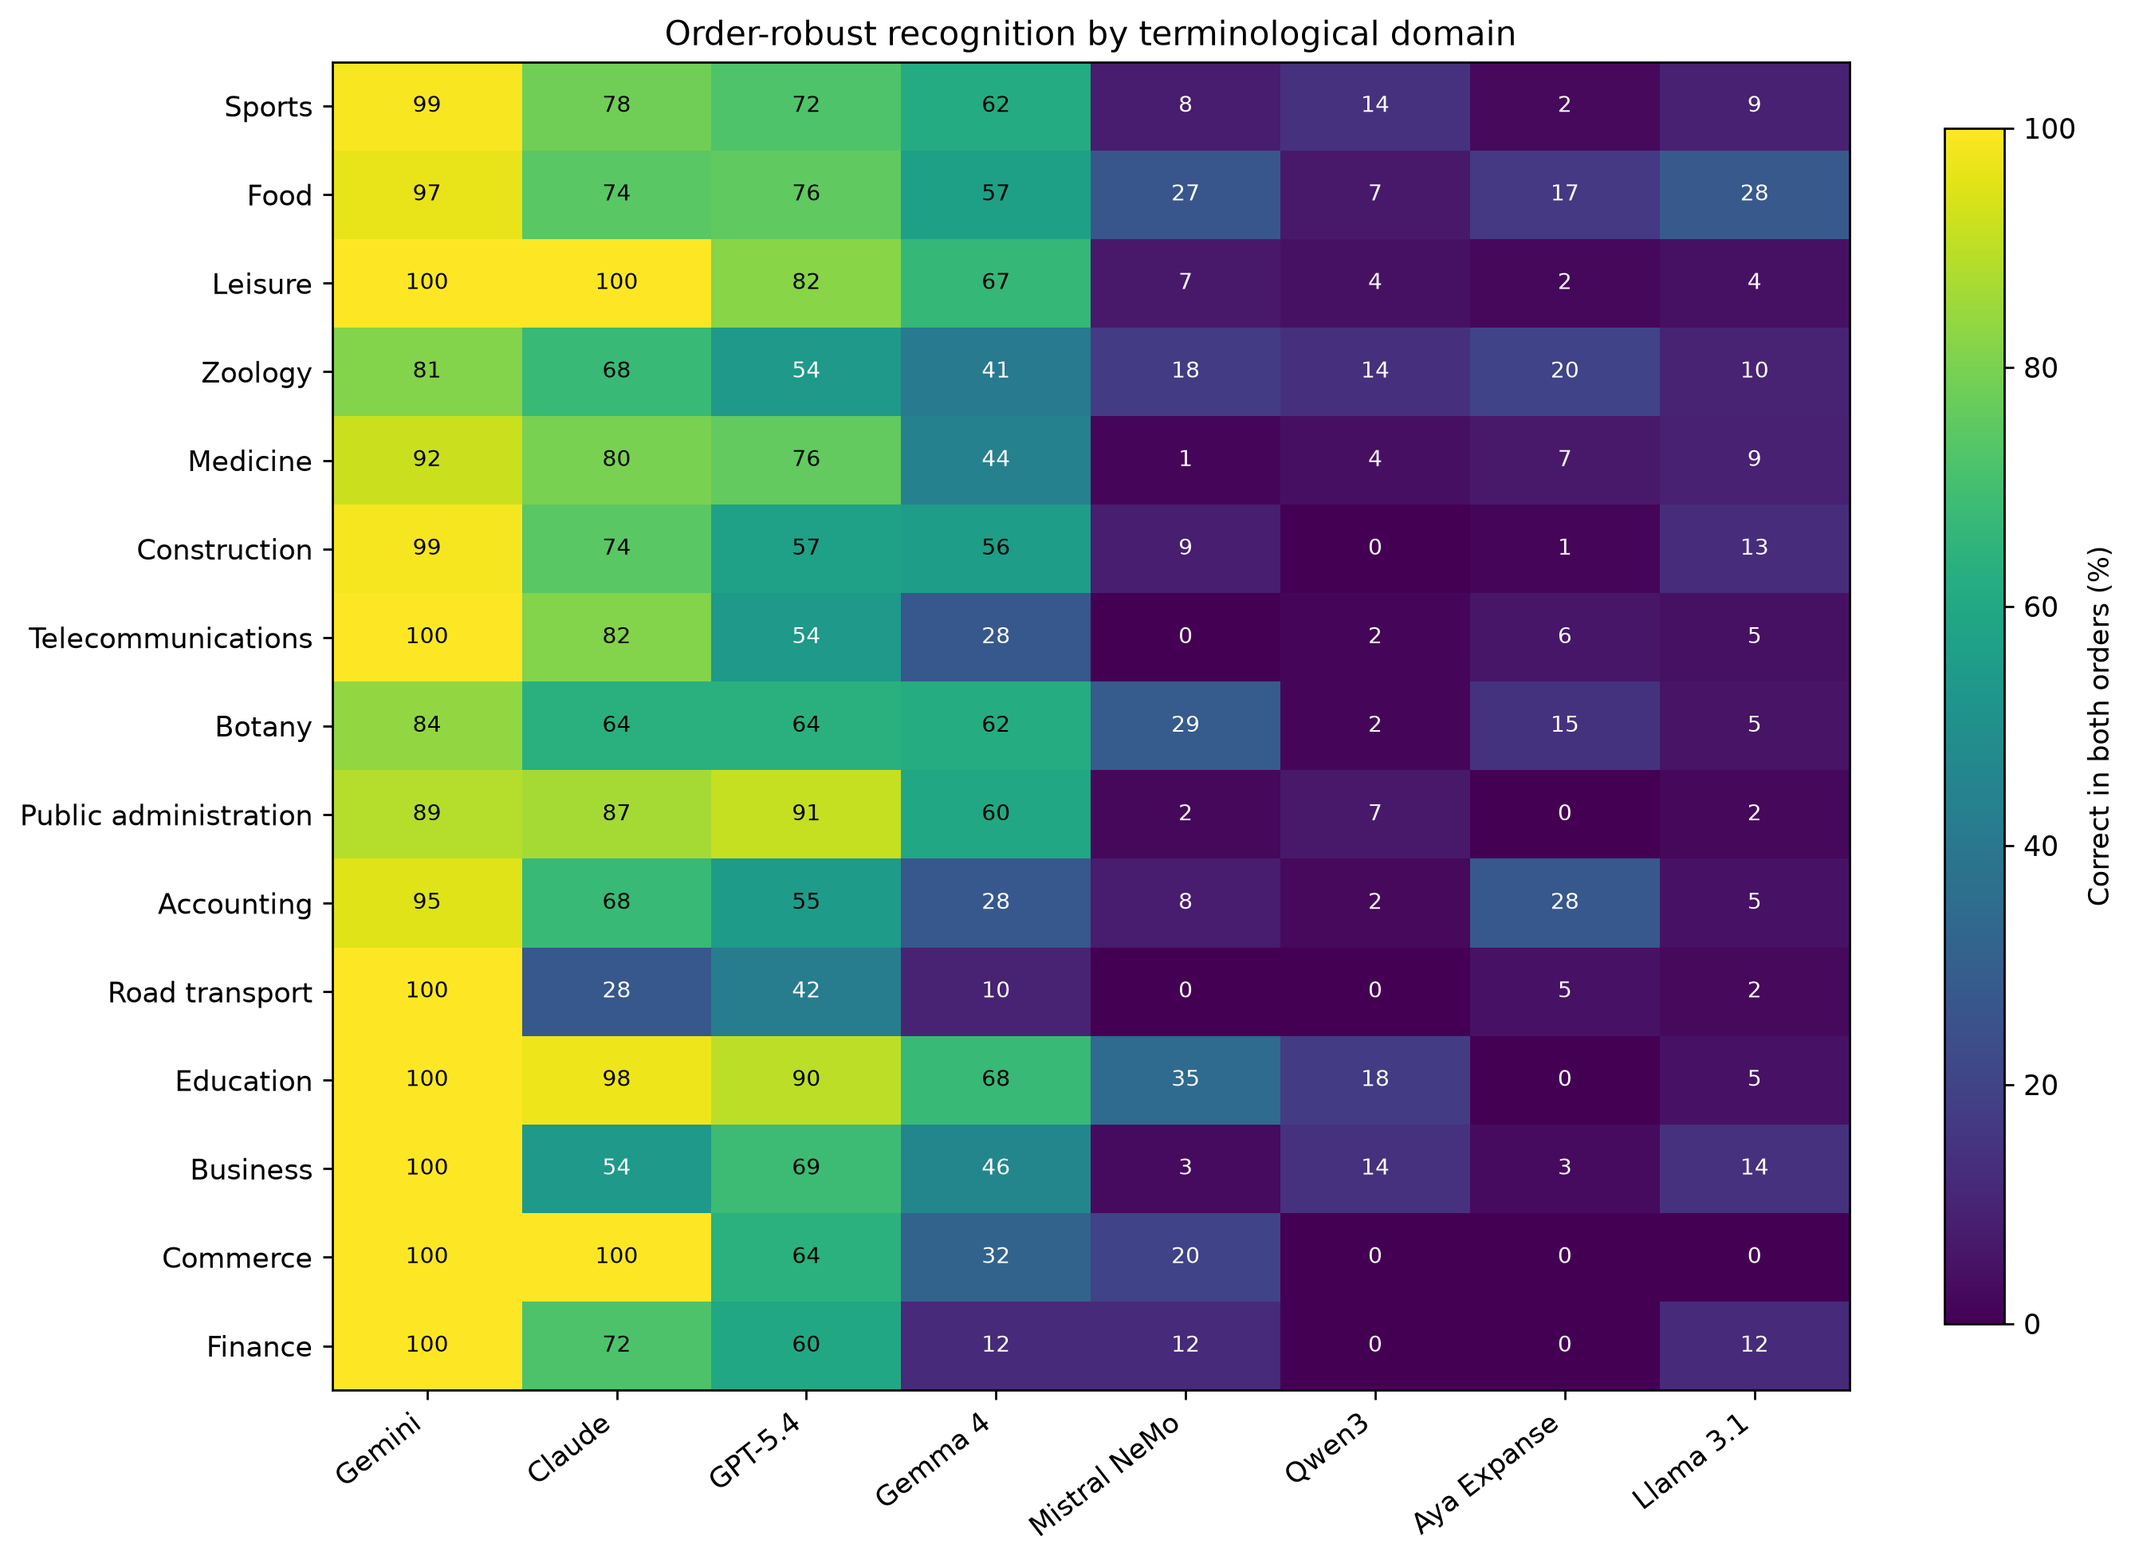
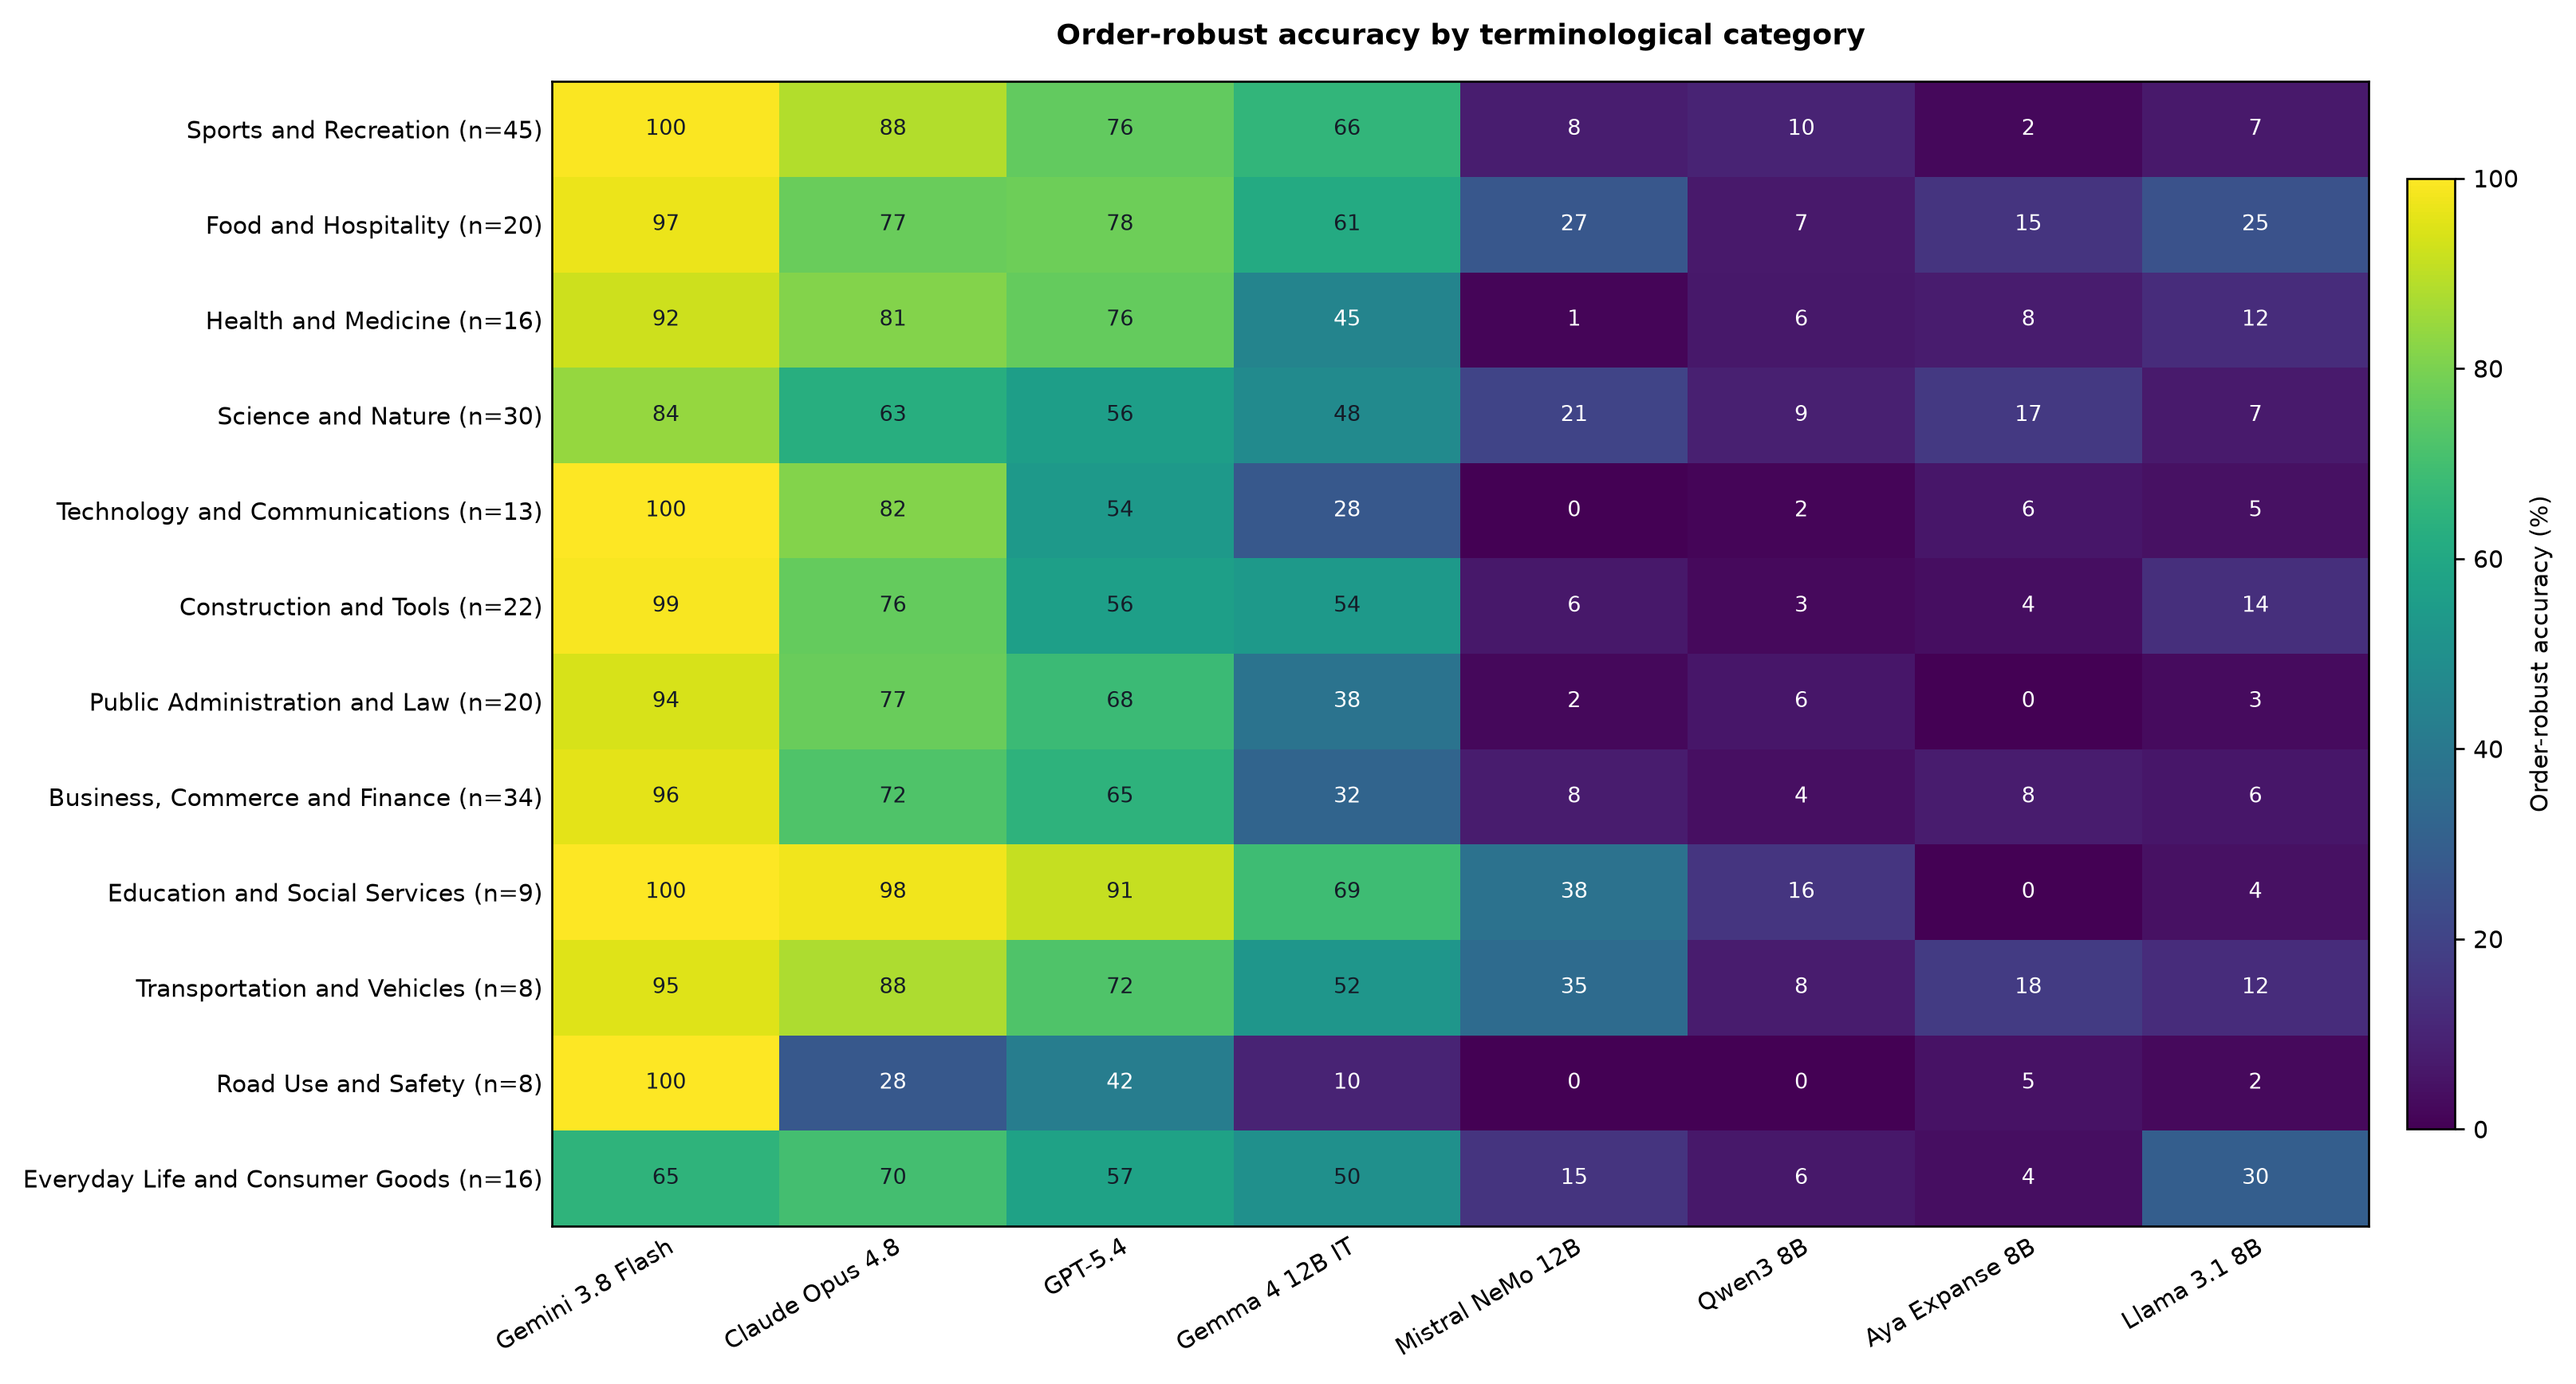
feat: add plot generation and update model labels

diff --git a/scripts/plot_publication_figures.py b/scripts/plot_publication_figures.py
@@ -1,0 +1,167 @@
+"""Rebuild publication figures from validated analysis CSVs (no inference).
+
+Run after the existing full-inversion analysis script. All outputs go to
+results/analysis/ and use manuscript-compatible filenames.
+"""
+from __future__ import annotations
+
+import argparse
+from pathlib import Path
+
+import matplotlib
+matplotlib.use("Agg")
+import matplotlib.pyplot as plt
+import numpy as np
+import pandas as pd
+
+MODELS = ["gemini", "claude", "gpt54", "gemma4_12b_it", "mistral_nemo_12b", "qwen3_8b", "aya_expanse_8b", "llama31_8b"]
+LABELS = {
+    "gemini": "Gemini 3.8 Flash", "claude": "Claude Opus 4.8", "gpt54": "GPT-5.4",
+    "gemma4_12b_it": "Gemma 4 12B IT", "mistral_nemo_12b": "Mistral NeMo 12B",
+    "qwen3_8b": "Qwen3 8B", "aya_expanse_8b": "Aya Expanse 8B", "llama31_8b": "Llama 3.1 8B",
+}
+CATEGORIES = [
+    "Sports and Recreation", "Food and Hospitality", "Health and Medicine",
+    "Science and Nature", "Technology and Communications", "Construction and Tools",
+    "Public Administration and Law", "Business, Commerce and Finance",
+    "Education and Social Services", "Transportation and Vehicles",
+    "Road Use and Safety", "Everyday Life and Consumer Goods",
+]
+plt.rcParams.update({"font.family": "DejaVu Sans", "font.size": 9, "pdf.fonttype": 42, "savefig.dpi": 240})
+
+
+def _load(path: Path, required: set[str]) -> pd.DataFrame:
+    if not path.is_file():
+        raise FileNotFoundError(f"Missing {path}; run the full analysis first")
+    df = pd.read_csv(path)
+    missing = required.difference(df.columns)
+    if missing:
+        raise ValueError(f"{path} lacks columns: {sorted(missing)}")
+    return df
+
+
+def _check_models(df: pd.DataFrame, name: str) -> pd.DataFrame:
+    present = set(df.model)
+    if present != set(MODELS):
+        raise ValueError(f"{name}: expected 8 models, found missing={set(MODELS)-present}, extra={present-set(MODELS)}")
+    return df
+
+
+def _save(fig, directory: Path, name: str) -> None:
+    for ext in ("png", "pdf"):
+        fig.savefig(directory / f"{name}.{ext}", bbox_inches="tight", pad_inches=0.12, dpi=240)
+    plt.close(fig)
+
+
+def plot_two_panel(overall: pd.DataFrame, out: Path) -> None:
+    arr = overall.set_index("model").loc[MODELS]
+    original = arr.original.to_numpy(float)*100
+    both = arr.correct_both.to_numpy(float)*100
+    one = arr.correct_one.to_numpy(float)*100
+    neither = arr.incorrect_both.to_numpy(float)*100
+    if not np.allclose(both+one+neither,100,atol=.01):
+        raise ValueError("Two-order results do not sum to 100%")
+    fig = plt.figure(figsize=(15.5,6.1))
+    grid = fig.add_gridspec(1,2,width_ratios=[1,1.45],wspace=.44)
+    a = fig.add_subplot(grid[0,0]); b=fig.add_subplot(grid[0,1])
+    a.plot([0,100],[0,100],"--",lw=1.2,color="#999999")
+    for i in range(8):
+        color="#31688e" if i<3 else "#8051a1"
+        a.scatter(original[i],both[i],s=115,c=color,edgecolors="white",linewidths=1,zorder=3)
+        a.text(original[i],both[i],str(i+1),ha="center",va="center",color="white",fontsize=7.5,weight="bold",zorder=4)
+    a.set(xlim=(18,102),ylim=(-3,102),xlabel="Original-order accuracy (%)",ylabel="Order-robust accuracy (%)")
+    a.set_title("(a) Original vs. order-robust accuracy",weight="bold")
+    a.grid(alpha=.17)
+    y=np.arange(8)
+    b.barh(y,both,color="#287d80",label="Correct in both orders")
+    b.barh(y,one,left=both,color="#d5a04b",label="Correct in one order")
+    b.barh(y,neither,left=both+one,color="#bf696a",label="Incorrect in both orders")
+    b.set(yticks=y,yticklabels=[f"{i+1}. {LABELS[m]}" for i,m in enumerate(MODELS)],xlim=(0,100),xlabel="Share of sentence pairs (%)")
+    b.invert_yaxis();b.grid(axis="x",alpha=.17);b.set_axisbelow(True)
+    for i in y:
+        for value,left in ((both[i],0),(one[i],both[i]),(neither[i],both[i]+one[i])):
+            if value>=10: b.text(left+value/2,i,f"{value:.1f}",ha="center",va="center",fontsize=7.7)
+    b.set_title("(b) Outcomes under candidate reversal",weight="bold")
+    fig.legend(*b.get_legend_handles_labels(),loc="lower center",bbox_to_anchor=(.5,-.02),ncol=3,frameon=False,fontsize=8.5)
+    fig.subplots_adjust(bottom=.16)
+    _save(fig,out,"two_panel_accuracy")
+
+
+def plot_ci(ci: pd.DataFrame, out: Path) -> None:
+    df=ci.loc[ci.metric.eq("correct_both")].set_index("model").loc[MODELS]
+    if len(df)!=8: raise ValueError("Missing robust CIs")
+    means=df.estimate.to_numpy(float)*100
+    low=df.low95.to_numpy(float)*100
+    high=df.high95.to_numpy(float)*100
+    if np.any(low>means) or np.any(means>high):raise ValueError("Invalid confidence intervals")
+    fig,ax=plt.subplots(figsize=(9.5,4.1))
+    y=np.arange(8)
+    for i in y:
+        ax.errorbar(means[i],i,xerr=np.array([[means[i]-low[i]],[high[i]-means[i]]]),fmt="o",capsize=3,ms=6,elinewidth=2,color="#31688e" if i<3 else "#8051a1")
+        ax.text(104,i,f"{means[i]:.2f}% [{low[i]:.2f}, {high[i]:.2f}]",va="center",fontsize=8.5)
+    ax.set(yticks=y,yticklabels=[LABELS[m] for m in MODELS],xlim=(0,150),xlabel="Order-robust accuracy (%)")
+    ax.invert_yaxis();ax.set_xticks([0,20,40,60,80,100]);ax.grid(axis="x",alpha=.16)
+    ax.set_title("Order-robust accuracy and 95% bootstrap CIs",weight="bold")
+    _save(fig,out,"robust_accuracy_ci")
+
+
+def aggregate_categories(pairs: pd.DataFrame, mapping: pd.DataFrame) -> pd.DataFrame:
+    """Map each source first/top-level domain to one broad category; pool pair outcomes."""
+    if mapping.primary_domain.duplicated().any():raise ValueError("Duplicate primary domains in mapping")
+    domain=pairs.domaine.fillna("").astype(str).str.split(";",regex=False).str[0].str.split(">",regex=False).str[0].str.strip()
+    lookup=dict(zip(mapping.primary_domain,mapping.broad_category))
+    missing=sorted(set(domain)-set(lookup))
+    if missing: raise ValueError(f"Unmapped primary domains: {missing}. Update data/domain_to_broad_category.csv")
+    df=pairs.assign(primary_domain=domain,broad_category=domain.map(lookup))
+    if len(df)!=1205*8 or df.feature_id.nunique()!=241:raise ValueError("Expected 1205 pairs x 8 models and 241 markers")
+    summary=(df.groupby(["model","broad_category"],as_index=False)
+        .agg(n_pairs=("pair_id","size"),n_markers=("feature_id","nunique"),robust_successes=("correct_both","sum")))
+    summary["robust"]=summary.robust_successes/summary.n_pairs
+    for model, part in summary.groupby("model"):
+        if part.n_pairs.sum()!=1205 or part.n_markers.sum()!=241 or set(part.broad_category)!=set(CATEGORIES):
+            raise ValueError(f"Incomplete category coverage for {model}")
+    return summary
+
+
+def plot_heatmap(data: pd.DataFrame,out:Path) -> None:
+    d=data.set_index(["model","broad_category"])
+    matrix=np.array([[100*float(d.loc[(model,cat),"robust"]) for model in MODELS] for cat in CATEGORIES])
+    counts=[int(d.loc[(MODELS[0],cat),"n_markers"]) for cat in CATEGORIES]
+    fig,ax=plt.subplots(figsize=(13.6,7.3))
+    im=ax.imshow(matrix,cmap="viridis",vmin=0,vmax=100,aspect="auto")
+    ax.set_xticks(np.arange(8),[LABELS[m] for m in MODELS],rotation=30,ha="right",rotation_mode="anchor",fontsize=9)
+    ax.set_yticks(np.arange(12),[f"{cat} (n={counts[i]})" for i,cat in enumerate(CATEGORIES)],fontsize=9)
+    for j in range(12):
+        for i in range(8):
+            val=matrix[j,i]
+            ax.text(i,j,f"{val:.0f}",ha="center",va="center",fontsize=8.1,color="white" if val<48 else "#151c28")
+    ax.tick_params(length=0)
+    ax.set_title("Order-robust accuracy by terminological category",weight="bold",pad=14)
+    cb=fig.colorbar(im,ax=ax,fraction=.025,pad=.02);cb.set_label("Order-robust accuracy (%)")
+    fig.tight_layout()
+    _save(fig,out,"domain_heatmap")
+
+
+def generate_figures(out: Path, mapping_path: Path) -> None:
+    """Call this from the bottom of the full-inversion analyzer after CSV export."""
+    out=Path(out);out.mkdir(parents=True,exist_ok=True)
+    overall=_check_models(_load(out/"overall.csv",{"model","original","correct_both","correct_one","incorrect_both"}),"overall")
+    ci=_check_models(_load(out/"cluster_bootstrap_ci.csv",{"model","metric","estimate","low95","high95"}),"CI")
+    pairs=_check_models(_load(out/"paired_observations.csv",{"model","pair_id","feature_id","domaine","correct_both"}),"paired observations")
+    mapping=_load(Path(mapping_path),{"primary_domain","broad_category"})
+    plot_two_panel(overall,out)
+    plot_ci(ci,out)
+    categories=aggregate_categories(pairs,mapping)
+    categories.to_csv(out/"broad_category_model_results.csv",index=False)
+    plot_heatmap(categories,out)
+    print("Saved:",*[str(out/f"{name}.{ext}") for name in ("two_panel_accuracy","robust_accuracy_ci","domain_heatmap") for ext in ("png","pdf")],sep="\n  ")
+
+
+def main():
+    parser=argparse.ArgumentParser(description=__doc__)
+    parser.add_argument("--out",type=Path,default=Path("results/analysis"))
+    parser.add_argument("--mapping",type=Path,default=Path("data/domain_to_broad_category.csv"))
+    args=parser.parse_args()
+    generate_figures(args.out,args.mapping)
+
+if __name__=="__main__":main()

diff --git a/scripts/analyze.py b/scripts/analyze.py
@@ -14,10 +14,11 @@ import matplotlib
 matplotlib.use('Agg')
 import matplotlib.pyplot as plt
 from qfrblima.protocol import PREFERENCES,load_benchmark,prediction,digest
+from plot_publication_figures import generate_figures
 
 MODELS=['gemini','claude','gpt54','gemma4_12b_it','mistral_nemo_12b','qwen3_8b','aya_expanse_8b','llama31_8b']
-LABELS={'gemini':'Gemini','claude':'Claude','gpt54':'GPT-5.4','gemma4_12b_it':'Gemma 4',
-        'mistral_nemo_12b':'Mistral NeMo','qwen3_8b':'Qwen3','aya_expanse_8b':'Aya Expanse','llama31_8b':'Llama 3.1'}
+LABELS={'gemini':'Gemini 3.8 Flash','claude':'Claude Opus 4.8','gpt54':'GPT-5.4','gemma4_12b_it':'Gemma 4 12B IT',
+        'mistral_nemo_12b':'Mistral NeMo 12B','qwen3_8b':'Qwen3 8B','aya_expanse_8b':'Aya Expanse 8B','llama31_8b':'Llama 3.1 8B'}
 
 def holm(ps):
     p=np.asarray(ps,dtype=float);idx=np.argsort(p);out=np.zeros(len(p));prev=0.
@@ -165,7 +166,7 @@ def main():
     p.add_argument('--predictions',type=Path,default=Path('results/predictions'))
     p.add_argument('--out',type=Path,default=Path('results/analysis'))
     p.add_argument('--models',nargs='+',default=MODELS)
-    p.add_argument('--bootstrap',type=int,default=20000)
+    p.add_argument('--bootstrap',type=int,default=10000)
     p.add_argument('--permutations',type=int,default=20000)
     p.add_argument('--seed',type=int,default=42)
     a=p.parse_args();a.out.mkdir(parents=True,exist_ok=True)
@@ -242,7 +243,10 @@ def main():
       ('marker_recognition.csv',pd.DataFrame(marker)),('domain_performance.csv',pd.DataFrame(domains)),
       ('difficult_markers.csv',hard),('shared_pair_errors.csv',pairs_agg)]:
         df.to_csv(a.out/filename,index=False)
-    plot_both(overall,a.out);plot_domains(pd.DataFrame(domains),a.out)
+    plot_both(overall,a.out)  # Keep the legacy two-order stacked bar figure.
+    # Paper figures: two-panel accuracy, bootstrap CIs, and 12-category heatmap.
+    # IMPORTANT: do not call plot_domains() here: it would overwrite the new heatmap.
+    generate_figures(a.out, Path('data/domain_to_broad_category.csv'))
     manifest={'seed':a.seed,'benchmark_sha256':digest(a.benchmark),'models':a.models,
       'n_pairs':len(b),'n_markers':b.feature_id.nunique(),
       'n_models':len(a.models),'n_pairs_robust_for_none':int((pairs_agg.n_models_robust==0).sum()),
